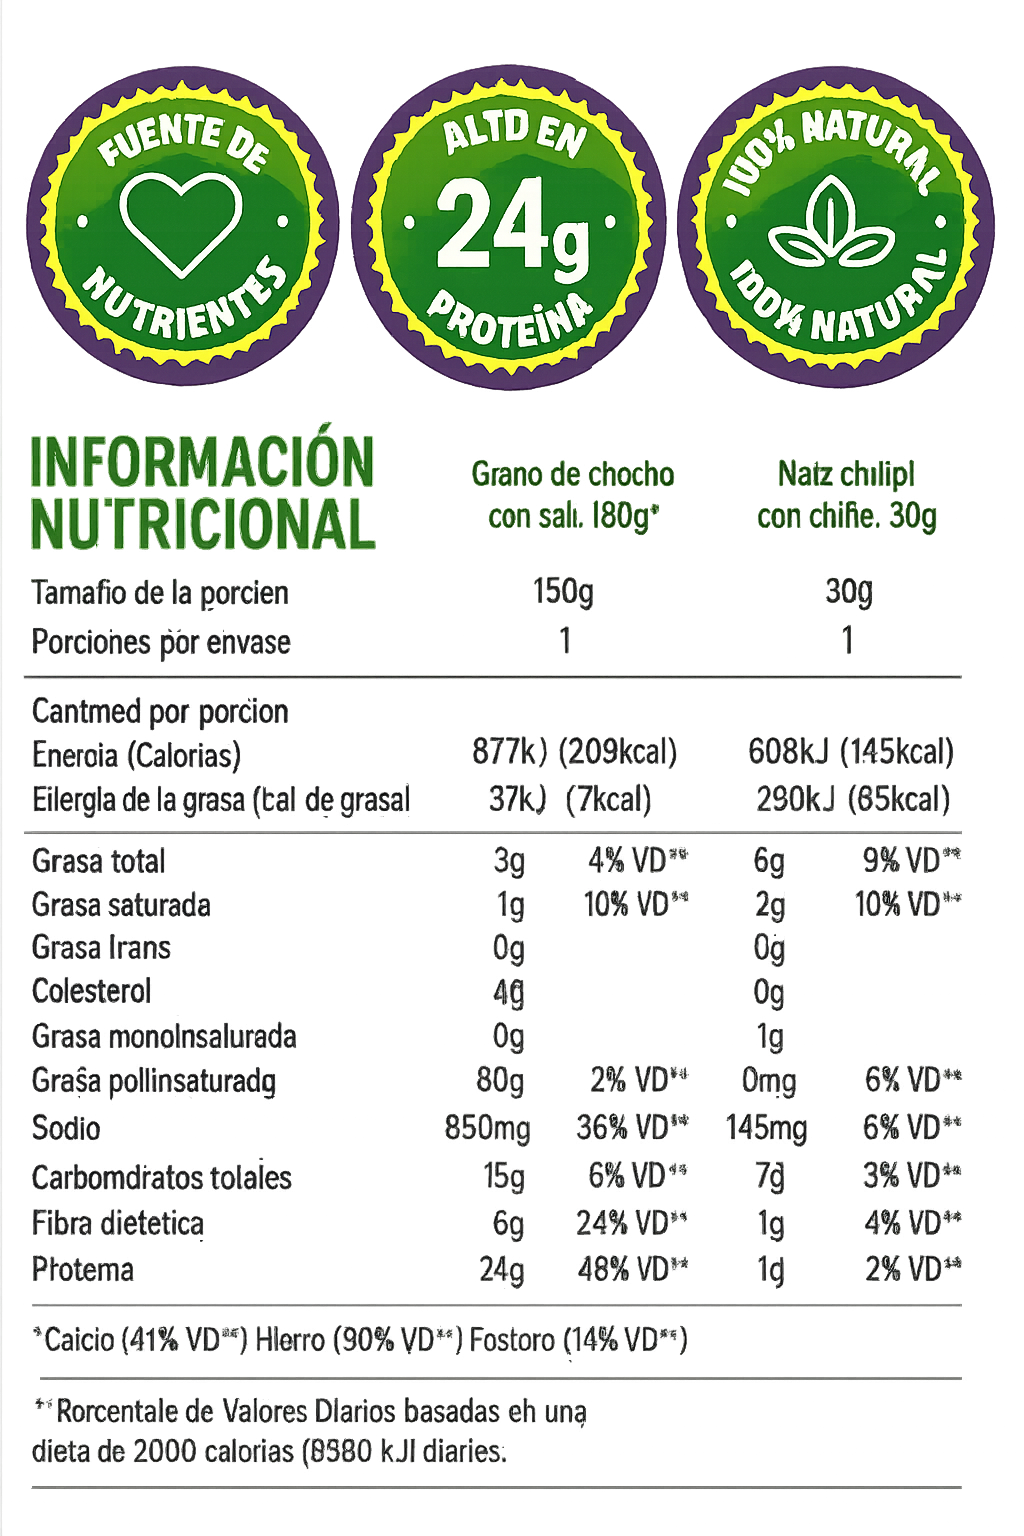
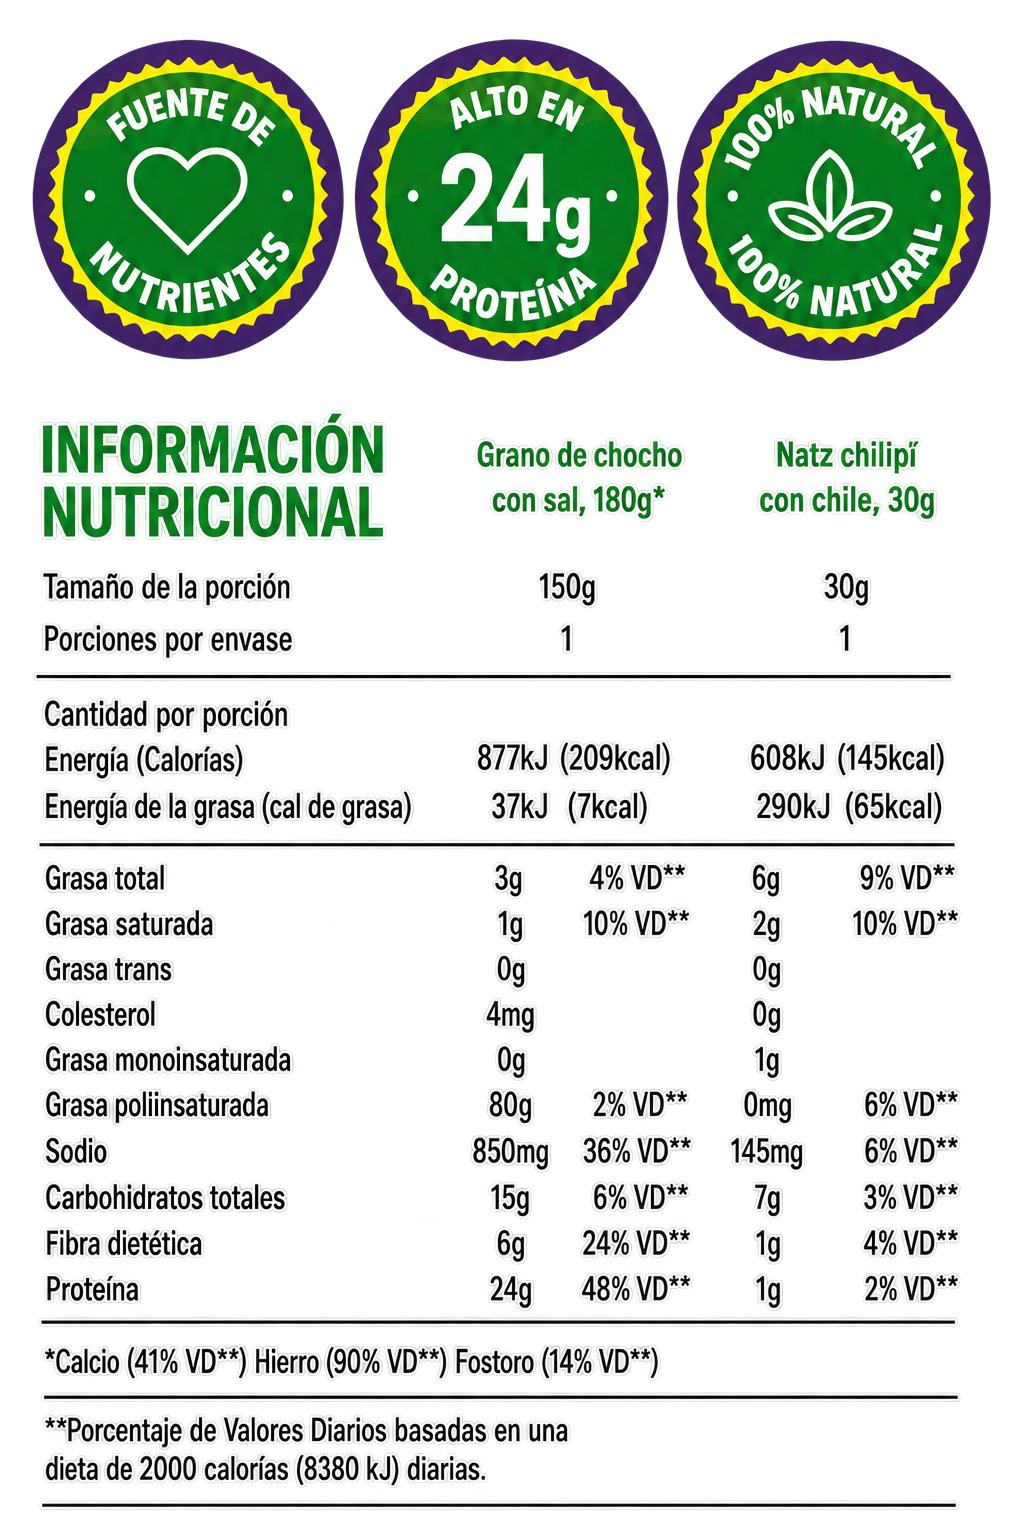
AGREGA16

diff --git a/templates/index.html b/templates/index.html
@@ -322,10 +322,13 @@
                 </p>
             </div>
 
-            <div class="w-full overflow-x-auto pb-8 hide-scrollbar scroll-smooth" style="-webkit-overflow-scrolling: touch;">
-                <div class="flex gap-6 w-max px-4 mx-auto snap-x">
-                    <!-- Usability 1 -->
-                    <div class="w-[280px] sm:w-[320px] flex-shrink-0 snap-center flex flex-col items-center text-center group bg-white/50 backdrop-blur-md rounded-2xl p-6 shadow-sm border border-white/40 hover:bg-white/80 transition-all duration-300" data-aos="zoom-in" data-aos-delay="0">
+            <div class="w-full overflow-hidden relative pb-8 px-2">
+                <!-- Contenedor animado que se pausa al pasar el ratón -->
+                <div class="flex gap-6 w-max animate-scroll-slow hover:[animation-play-state:paused]">
+
+                    <!-- === PRIMER SET DE 4 TARJETAS === -->
+                    <!-- Tarjeta 1 -->
+                    <div class="w-[280px] sm:w-[320px] flex-shrink-0 flex flex-col items-center text-center group bg-white/50 backdrop-blur-md rounded-2xl p-6 shadow-sm border border-white/40 hover:bg-white/80 transition-all duration-300">
                         <div class="w-16 h-16 sm:w-20 sm:h-20 rounded-full bg-white shadow-lg flex items-center justify-center mb-4 sm:mb-5 group-hover:scale-110 transition-transform duration-300 border-2 border-leaf-200">
                             <svg class="w-8 h-8 sm:w-9 sm:h-9 text-earth-500" fill="none" stroke="currentColor" viewBox="0 0 24 24">
                                 <path stroke-linecap="round" stroke-linejoin="round" stroke-width="1.5" d="M13 10V3L4 14h7v7l9-11h-7z"/>
@@ -335,8 +338,8 @@
                         <p class="text-leaf-500 text-xs sm:text-sm">{{ t.usability_1_desc }}</p>
                     </div>
 
-                    <!-- Usability 2 -->
-                    <div class="w-[280px] sm:w-[320px] flex-shrink-0 snap-center flex flex-col items-center text-center group bg-white/50 backdrop-blur-md rounded-2xl p-6 shadow-sm border border-white/40 hover:bg-white/80 transition-all duration-300" data-aos="zoom-in" data-aos-delay="100">
+                    <!-- Tarjeta 2 -->
+                    <div class="w-[280px] sm:w-[320px] flex-shrink-0 flex flex-col items-center text-center group bg-white/50 backdrop-blur-md rounded-2xl p-6 shadow-sm border border-white/40 hover:bg-white/80 transition-all duration-300">
                         <div class="w-16 h-16 sm:w-20 sm:h-20 rounded-full bg-white shadow-lg flex items-center justify-center mb-4 sm:mb-5 group-hover:scale-110 transition-transform duration-300 border-2 border-leaf-200">
                             <svg class="w-8 h-8 sm:w-9 sm:h-9 text-earth-500" fill="none" stroke="currentColor" viewBox="0 0 24 24">
                                 <path stroke-linecap="round" stroke-linejoin="round" stroke-width="1.5" d="M12 3v1m0 16v1m9-9h-1M4 12H3m15.364 6.364l-.707-.707M6.343 6.343l-.707-.707m12.728 0l-.707.707M6.343 17.657l-.707.707M16 12a4 4 0 11-8 0 4 4 0 018 0z"/>
@@ -346,8 +349,8 @@
                         <p class="text-leaf-500 text-xs sm:text-sm">{{ t.usability_2_desc }}</p>
                     </div>
 
-                    <!-- Usability 3 -->
-                    <div class="w-[280px] sm:w-[320px] flex-shrink-0 snap-center flex flex-col items-center text-center group bg-white/50 backdrop-blur-md rounded-2xl p-6 shadow-sm border border-white/40 hover:bg-white/80 transition-all duration-300" data-aos="zoom-in" data-aos-delay="200">
+                    <!-- Tarjeta 3 -->
+                    <div class="w-[280px] sm:w-[320px] flex-shrink-0 flex flex-col items-center text-center group bg-white/50 backdrop-blur-md rounded-2xl p-6 shadow-sm border border-white/40 hover:bg-white/80 transition-all duration-300">
                         <div class="w-16 h-16 sm:w-20 sm:h-20 rounded-full bg-white shadow-lg flex items-center justify-center mb-4 sm:mb-5 group-hover:scale-110 transition-transform duration-300 border-2 border-leaf-200">
                             <svg class="w-8 h-8 sm:w-9 sm:h-9 text-earth-500" fill="none" stroke="currentColor" viewBox="0 0 24 24">
                                 <path stroke-linecap="round" stroke-linejoin="round" stroke-width="1.5" d="M3.055 11H5a2 2 0 012 2v1a2 2 0 002 2 2 2 0 012 2v2.945M8 3.935V5.5A2.5 2.5 0 0010.5 8h.5a2 2 0 012 2 2 2 0 104 0 2 2 0 012-2h1.064M15 20.488V18a2 2 0 012-2h3.064M21 12a9 9 0 11-18 0 9 9 0 0118 0z"/>
@@ -357,8 +360,8 @@
                         <p class="text-leaf-500 text-xs sm:text-sm">{{ t.usability_3_desc }}</p>
                     </div>
 
-                    <!-- Usability 4 -->
-                    <div class="w-[280px] sm:w-[320px] flex-shrink-0 snap-center flex flex-col items-center text-center group bg-white/50 backdrop-blur-md rounded-2xl p-6 shadow-sm border border-white/40 hover:bg-white/80 transition-all duration-300" data-aos="zoom-in" data-aos-delay="300">
+                    <!-- Tarjeta 4 -->
+                    <div class="w-[280px] sm:w-[320px] flex-shrink-0 flex flex-col items-center text-center group bg-white/50 backdrop-blur-md rounded-2xl p-6 shadow-sm border border-white/40 hover:bg-white/80 transition-all duration-300">
                         <div class="w-16 h-16 sm:w-20 sm:h-20 rounded-full bg-white shadow-lg flex items-center justify-center mb-4 sm:mb-5 group-hover:scale-110 transition-transform duration-300 border-2 border-leaf-200">
                             <svg class="w-8 h-8 sm:w-9 sm:h-9 text-earth-500" fill="none" stroke="currentColor" viewBox="0 0 24 24">
                                 <path stroke-linecap="round" stroke-linejoin="round" stroke-width="1.5" d="M9 19v-6a2 2 0 00-2-2H5a2 2 0 00-2 2v6a2 2 0 002 2h2a2 2 0 002-2zm0 0V9a2 2 0 012-2h2a2 2 0 012 2v10m-6 0a2 2 0 002 2h2a2 2 0 002-2m0 0V5a2 2 0 012-2h2a2 2 0 012 2v14a2 2 0 01-2 2h-2a2 2 0 01-2-2z"/>
@@ -367,6 +370,52 @@
                         <h3 class="font-display font-semibold text-sm sm:text-base text-leaf-800 mb-2">{{ t.usability_4_titulo }}</h3>
                         <p class="text-leaf-500 text-xs sm:text-sm">{{ t.usability_4_desc }}</p>
                     </div>
+
+                    <!-- === SEGUNDO SET DE 4 TARJETAS (DUPLICADO EXACTO PARA EL BUCLE INFINITO) === -->
+                    <!-- Tarjeta 1 (Copia) -->
+                    <div class="w-[280px] sm:w-[320px] flex-shrink-0 flex flex-col items-center text-center group bg-white/50 backdrop-blur-md rounded-2xl p-6 shadow-sm border border-white/40 hover:bg-white/80 transition-all duration-300">
+                        <div class="w-16 h-16 sm:w-20 sm:h-20 rounded-full bg-white shadow-lg flex items-center justify-center mb-4 sm:mb-5 group-hover:scale-110 transition-transform duration-300 border-2 border-leaf-200">
+                            <svg class="w-8 h-8 sm:w-9 sm:h-9 text-earth-500" fill="none" stroke="currentColor" viewBox="0 0 24 24">
+                                <path stroke-linecap="round" stroke-linejoin="round" stroke-width="1.5" d="M13 10V3L4 14h7v7l9-11h-7z"/>
+                            </svg>
+                        </div>
+                        <h3 class="font-display font-semibold text-sm sm:text-base text-leaf-800 mb-2">{{ t.usability_1_titulo }}</h3>
+                        <p class="text-leaf-500 text-xs sm:text-sm">{{ t.usability_1_desc }}</p>
+                    </div>
+
+                    <!-- Tarjeta 2 (Copia) -->
+                    <div class="w-[280px] sm:w-[320px] flex-shrink-0 flex flex-col items-center text-center group bg-white/50 backdrop-blur-md rounded-2xl p-6 shadow-sm border border-white/40 hover:bg-white/80 transition-all duration-300">
+                        <div class="w-16 h-16 sm:w-20 sm:h-20 rounded-full bg-white shadow-lg flex items-center justify-center mb-4 sm:mb-5 group-hover:scale-110 transition-transform duration-300 border-2 border-leaf-200">
+                            <svg class="w-8 h-8 sm:w-9 sm:h-9 text-earth-500" fill="none" stroke="currentColor" viewBox="0 0 24 24">
+                                <path stroke-linecap="round" stroke-linejoin="round" stroke-width="1.5" d="M12 3v1m0 16v1m9-9h-1M4 12H3m15.364 6.364l-.707-.707M6.343 6.343l-.707-.707m12.728 0l-.707.707M6.343 17.657l-.707.707M16 12a4 4 0 11-8 0 4 4 0 018 0z"/>
+                            </svg>
+                        </div>
+                        <h3 class="font-display font-semibold text-sm sm:text-base text-leaf-800 mb-2">{{ t.usability_2_titulo }}</h3>
+                        <p class="text-leaf-500 text-xs sm:text-sm">{{ t.usability_2_desc }}</p>
+                    </div>
+
+                    <!-- Tarjeta 3 (Copia) -->
+                    <div class="w-[280px] sm:w-[320px] flex-shrink-0 flex flex-col items-center text-center group bg-white/50 backdrop-blur-md rounded-2xl p-6 shadow-sm border border-white/40 hover:bg-white/80 transition-all duration-300">
+                        <div class="w-16 h-16 sm:w-20 sm:h-20 rounded-full bg-white shadow-lg flex items-center justify-center mb-4 sm:mb-5 group-hover:scale-110 transition-transform duration-300 border-2 border-leaf-200">
+                            <svg class="w-8 h-8 sm:w-9 sm:h-9 text-earth-500" fill="none" stroke="currentColor" viewBox="0 0 24 24">
+                                <path stroke-linecap="round" stroke-linejoin="round" stroke-width="1.5" d="M3.055 11H5a2 2 0 012 2v1a2 2 0 002 2 2 2 0 012 2v2.945M8 3.935V5.5A2.5 2.5 0 0010.5 8h.5a2 2 0 012 2 2 2 0 104 0 2 2 0 012-2h1.064M15 20.488V18a2 2 0 012-2h3.064M21 12a9 9 0 11-18 0 9 9 0 0118 0z"/>
+                            </svg>
+                        </div>
+                        <h3 class="font-display font-semibold text-sm sm:text-base text-leaf-800 mb-2">{{ t.usability_3_titulo }}</h3>
+                        <p class="text-leaf-500 text-xs sm:text-sm">{{ t.usability_3_desc }}</p>
+                    </div>
+
+                    <!-- Tarjeta 4 (Copia) -->
+                    <div class="w-[280px] sm:w-[320px] flex-shrink-0 flex flex-col items-center text-center group bg-white/50 backdrop-blur-md rounded-2xl p-6 shadow-sm border border-white/40 hover:bg-white/80 transition-all duration-300">
+                        <div class="w-16 h-16 sm:w-20 sm:h-20 rounded-full bg-white shadow-lg flex items-center justify-center mb-4 sm:mb-5 group-hover:scale-110 transition-transform duration-300 border-2 border-leaf-200">
+                            <svg class="w-8 h-8 sm:w-9 sm:h-9 text-earth-500" fill="none" stroke="currentColor" viewBox="0 0 24 24">
+                                <path stroke-linecap="round" stroke-linejoin="round" stroke-width="1.5" d="M9 19v-6a2 2 0 00-2-2H5a2 2 0 00-2 2v6a2 2 0 002 2h2a2 2 0 002-2zm0 0V9a2 2 0 012-2h2a2 2 0 012 2v10m-6 0a2 2 0 002 2h2a2 2 0 002-2m0 0V5a2 2 0 012-2h2a2 2 0 012 2v14a2 2 0 01-2 2h-2a2 2 0 01-2-2z"/>
+                            </svg>
+                        </div>
+                        <h3 class="font-display font-semibold text-sm sm:text-base text-leaf-800 mb-2">{{ t.usability_4_titulo }}</h3>
+                        <p class="text-leaf-500 text-xs sm:text-sm">{{ t.usability_4_desc }}</p>
+                    </div>
+
                 </div>
             </div>
         </div>
